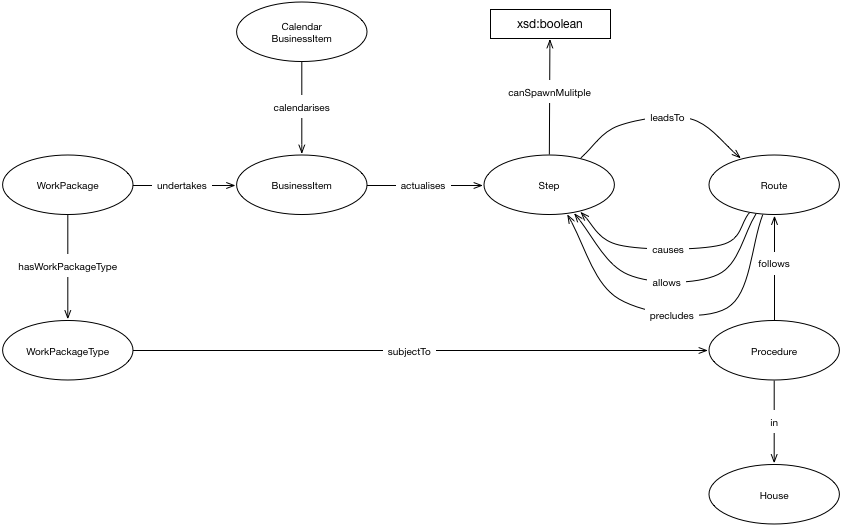
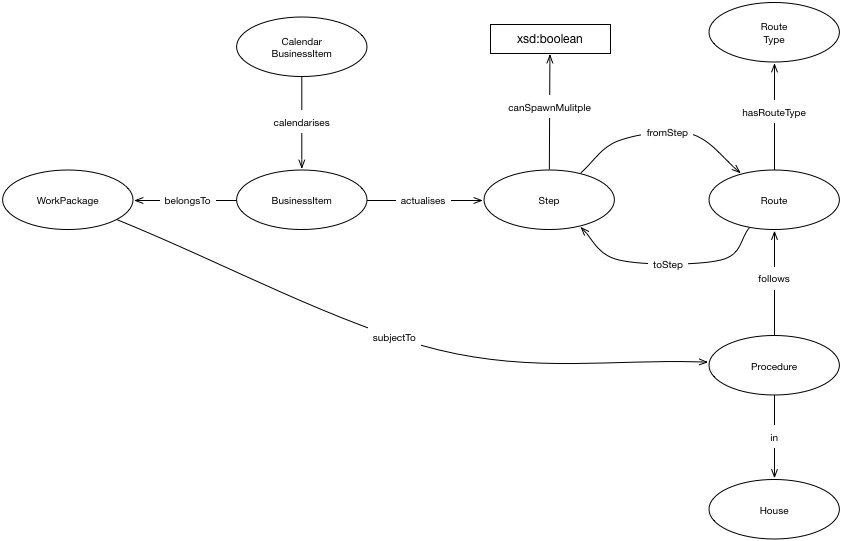
moved relationship predicates into route type class

diff --git a/procedure/procedure-ontology.html b/procedure/procedure-ontology.html
@@ -10,6 +10,8 @@
 
 
 
+
+
 		<link href="https://ukparliament.github.io/ontologies/assets/css.css" rel="stylesheet" type="text/css" />
 	</head>
 		<body>
@@ -36,21 +38,15 @@
 		<div id="toc"><h2>Table of Content</h2><ol><li><a href="#classes">Classes</a></li><li><a href="#objectproperties">Object Properties</a></li><li><a href="#dataproperties">Data Properties</a></li><li><a href="#namespacedeclarations">Namespace Declarations</a></li></ol></div>
 
 		<p><img src="https://raw.githubusercontent.com/ukpds/ontologies/master/procedure/procedure.png" width="950" /></p>
+		
+		
+		
 
 
 
 
 
 
-
-
-
-
-
-
-
-
-
-<div id="classes"><h2>Classes</h2><ul class="hlist"><li><a href="#d4e211" title="http://parliament.uk/ontologies/procedure/BusinessItem">BusinessItem</a></li><li><a href="#d4e222" title="http://parliament.uk/ontologies/procedure/CalendarBusinessItem">CalendarBusinessItem</a></li><li><a href="#d4e233" title="http://parliament.uk/ontologies/procedure/House">House</a></li><li><a href="#d4e245" title="http://parliament.uk/ontologies/procedure/Procedure">Procedure</a></li><li><a href="#d4e256" title="http://parliament.uk/ontologies/procedure/Route">Route</a></li><li><a href="#d4e267" title="http://parliament.uk/ontologies/procedure/Step">Step</a></li><li><a href="#d4e279" title="http://parliament.uk/ontologies/procedure/WorkPackage">WorkPackage</a></li><li><a href="#d4e290" title="http://parliament.uk/ontologies/procedure/WorkPackageType">WorkPackageType</a></li></ul><div id="d4e211" class="entity"><a name="http://parliament.uk/ontologies/procedure/BusinessItem"></a><h3>BusinessItem<sup title="class" class="type-c">c</sup><span class="backlink"> back to <a href="#toc">ToC</a> or <a href="#classes">Class ToC</a></span></h3><p><strong>IRI:</strong> http://parliament.uk/ontologies/procedure/BusinessItem</p><div class="comment"><span class="markdown">An item of parliamentary business.</span></div><dl class="description"><dt>is in domain of</dt><dd><a href="#d4e22" title="http://parliament.uk/ontologies/procedure/actualises">actualises</a><sup title="object property" class="type-op">op</sup></dd><dt>is in range of</dt><dd><a href="#d4e53" title="http://parliament.uk/ontologies/procedure/calendarises">calendarises</a><sup title="object property" class="type-op">op</sup>, <a href="#d4e176" title="http://parliament.uk/ontologies/procedure/undertakes">undertakes</a><sup title="object property" class="type-op">op</sup></dd></dl></div><div id="d4e222" class="entity"><a name="http://parliament.uk/ontologies/procedure/CalendarBusinessItem"></a><h3>CalendarBusinessItem<sup title="class" class="type-c">c</sup><span class="backlink"> back to <a href="#toc">ToC</a> or <a href="#classes">Class ToC</a></span></h3><p><strong>IRI:</strong> http://parliament.uk/ontologies/procedure/CalendarBusinessItem</p><div class="comment"><span class="markdown">An item of parliamentary business which has been timetabled onto a calendar.</span></div><dl class="description"><dt>is in domain of</dt><dd><a href="#d4e53" title="http://parliament.uk/ontologies/procedure/calendarises">calendarises</a><sup title="object property" class="type-op">op</sup></dd></dl></div><div id="d4e233" class="entity"><a name="http://parliament.uk/ontologies/procedure/House"></a><h3>House<sup title="class" class="type-c">c</sup><span class="backlink"> back to <a href="#toc">ToC</a> or <a href="#classes">Class ToC</a></span></h3><p><strong>IRI:</strong> http://parliament.uk/ontologies/procedure/House</p><div class="comment"><span class="markdown">A parliamentary House e.g. the House of Lords.</span></div><dl class="description"><dt>is in range of</dt><dd><a href="#d4e114" title="http://parliament.uk/ontologies/procedure/in">in</a><sup title="object property" class="type-op">op</sup></dd></dl></div><div id="d4e245" class="entity"><a name="http://parliament.uk/ontologies/procedure/Procedure"></a><h3>Procedure<sup title="class" class="type-c">c</sup><span class="backlink"> back to <a href="#toc">ToC</a> or <a href="#classes">Class ToC</a></span></h3><p><strong>IRI:</strong> http://parliament.uk/ontologies/procedure/Procedure</p><div class="comment"><span class="markdown">A parliamentary procedure in a particular House. Examples might be the passage of an affirmative SI in the House of Commons, the passage of a public bill in the House of Lords etc.</span></div><dl class="description"><dt>is in domain of</dt><dd><a href="#d4e84" title="http://parliament.uk/ontologies/procedure/follows">follows</a><sup title="object property" class="type-op">op</sup>, <a href="#d4e114" title="http://parliament.uk/ontologies/procedure/in">in</a><sup title="object property" class="type-op">op</sup></dd><dt>is in range of</dt><dd><a href="#d4e160" title="http://parliament.uk/ontologies/procedure/subjectTo">subjectTo</a><sup title="object property" class="type-op">op</sup></dd></dl></div><div id="d4e256" class="entity"><a name="http://parliament.uk/ontologies/procedure/Route"></a><h3>Route<sup title="class" class="type-c">c</sup><span class="backlink"> back to <a href="#toc">ToC</a> or <a href="#classes">Class ToC</a></span></h3><p><strong>IRI:</strong> http://parliament.uk/ontologies/procedure/Route</p><div class="comment"><span class="markdown">Ties a preceding step to a following step depending on applicable procedure, point in time and conditional inputs from the preceding step. Note that routes are time bound (borrowing startOn and endOn from the Core Ontology) allowing for routes to change over time and reflect changes to procedure.</span></div><dl class="description"><dt>is in domain of</dt><dd><a href="#d4e38" title="http://parliament.uk/ontologies/procedure/allows">allows</a><sup title="object property" class="type-op">op</sup>, <a href="#d4e68" title="http://parliament.uk/ontologies/procedure/causes">causes</a><sup title="object property" class="type-op">op</sup>, <a href="#d4e145" title="http://parliament.uk/ontologies/procedure/precludes">precludes</a><sup title="object property" class="type-op">op</sup></dd><dt>is in range of</dt><dd><a href="#d4e84" title="http://parliament.uk/ontologies/procedure/follows">follows</a><sup title="object property" class="type-op">op</sup>, <a href="#d4e130" title="http://parliament.uk/ontologies/procedure/leadsTo">leadsTo</a><sup title="object property" class="type-op">op</sup></dd></dl></div><div id="d4e267" class="entity"><a name="http://parliament.uk/ontologies/procedure/Step"></a><h3>Step<sup title="class" class="type-c">c</sup><span class="backlink"> back to <a href="#toc">ToC</a> or <a href="#classes">Class ToC</a></span></h3><p><strong>IRI:</strong> http://parliament.uk/ontologies/procedure/Step</p><div class="comment"><span class="markdown">A step in a process. May occur in one or many routes.</span></div><dl class="description"><dt>is in domain of</dt><dd><a href="#d4e193" title="http://parliament.uk/ontologies/procedure/canSpawnMultiple">canSpawnMultiple</a><sup title="data property" class="type-dp">dp</sup>, <a href="#d4e130" title="http://parliament.uk/ontologies/procedure/leadsTo">leadsTo</a><sup title="object property" class="type-op">op</sup></dd><dt>is in range of</dt><dd><a href="#d4e22" title="http://parliament.uk/ontologies/procedure/actualises">actualises</a><sup title="object property" class="type-op">op</sup>, <a href="#d4e38" title="http://parliament.uk/ontologies/procedure/allows">allows</a><sup title="object property" class="type-op">op</sup>, <a href="#d4e68" title="http://parliament.uk/ontologies/procedure/causes">causes</a><sup title="object property" class="type-op">op</sup>, <a href="#d4e145" title="http://parliament.uk/ontologies/procedure/precludes">precludes</a><sup title="object property" class="type-op">op</sup></dd></dl></div><div id="d4e279" class="entity"><a name="http://parliament.uk/ontologies/procedure/WorkPackage"></a><h3>WorkPackage<sup title="class" class="type-c">c</sup><span class="backlink"> back to <a href="#toc">ToC</a> or <a href="#classes">Class ToC</a></span></h3><p><strong>IRI:</strong> http://parliament.uk/ontologies/procedure/WorkPackage</p><div class="comment"><span class="markdown">A package of work involving many individual business items. Might be the passage of a specific statutory instrument or the passage of a specific public bill etc.</span></div><dl class="description"><dt>is in domain of</dt><dd><a href="#d4e99" title="http://parliament.uk/ontologies/procedure/hasWorkPackageType">hasWorkPackageType</a><sup title="object property" class="type-op">op</sup>, <a href="#d4e176" title="http://parliament.uk/ontologies/procedure/undertakes">undertakes</a><sup title="object property" class="type-op">op</sup></dd></dl></div><div id="d4e290" class="entity"><a name="http://parliament.uk/ontologies/procedure/WorkPackageType"></a><h3>WorkPackageType<sup title="class" class="type-c">c</sup><span class="backlink"> back to <a href="#toc">ToC</a> or <a href="#classes">Class ToC</a></span></h3><p><strong>IRI:</strong> http://parliament.uk/ontologies/procedure/WorkPackageType</p><div class="comment"><span class="markdown">A type of a work package. Might be the passage of affirmative statutory instruments or the passage of public bills etc.</span></div><dl class="description"><dt>is in domain of</dt><dd><a href="#d4e160" title="http://parliament.uk/ontologies/procedure/subjectTo">subjectTo</a><sup title="object property" class="type-op">op</sup></dd><dt>is in range of</dt><dd><a href="#d4e99" title="http://parliament.uk/ontologies/procedure/hasWorkPackageType">hasWorkPackageType</a><sup title="object property" class="type-op">op</sup></dd></dl></div></div><div id="objectproperties"><h2>Object Properties</h2><ul class="hlist"><li><a href="#d4e22" title="http://parliament.uk/ontologies/procedure/actualises">actualises</a></li><li><a href="#d4e38" title="http://parliament.uk/ontologies/procedure/allows">allows</a></li><li><a href="#d4e53" title="http://parliament.uk/ontologies/procedure/calendarises">calendarises</a></li><li><a href="#d4e68" title="http://parliament.uk/ontologies/procedure/causes">causes</a></li><li><a href="#d4e84" title="http://parliament.uk/ontologies/procedure/follows">follows</a></li><li><a href="#d4e99" title="http://parliament.uk/ontologies/procedure/hasWorkPackageType">hasWorkPackageType</a></li><li><a href="#d4e114" title="http://parliament.uk/ontologies/procedure/in">in</a></li><li><a href="#d4e130" title="http://parliament.uk/ontologies/procedure/leadsTo">leadsTo</a></li><li><a href="#d4e145" title="http://parliament.uk/ontologies/procedure/precludes">precludes</a></li><li><a href="#d4e160" title="http://parliament.uk/ontologies/procedure/subjectTo">subjectTo</a></li><li><a href="#d4e176" title="http://parliament.uk/ontologies/procedure/undertakes">undertakes</a></li></ul><div id="d4e22" class="entity"><a name="http://parliament.uk/ontologies/procedure/actualises"></a><h3>actualises<sup title="object property" class="type-op">op</sup><span class="backlink"> back to <a href="#toc">ToC</a> or <a href="#objectproperties">Object Property ToC</a></span></h3><p><strong>IRI:</strong> http://parliament.uk/ontologies/procedure/actualises</p><div class="comment"><span class="markdown">Relates a business item to a step in a procedure.</span></div><div class="description"><dl><dt>has domain</dt><dd><a href="#d4e211" title="http://parliament.uk/ontologies/procedure/BusinessItem">BusinessItem</a><sup title="class" class="type-c">c</sup></dd><dt>has range</dt><dd><a href="#d4e267" title="http://parliament.uk/ontologies/procedure/Step">Step</a><sup title="class" class="type-c">c</sup></dd></dl></div></div><div id="d4e38" class="entity"><a name="http://parliament.uk/ontologies/procedure/allows"></a><h3>allows<sup title="object property" class="type-op">op</sup><span class="backlink"> back to <a href="#toc">ToC</a> or <a href="#objectproperties">Object Property ToC</a></span></h3><p><strong>IRI:</strong> http://parliament.uk/ontologies/procedure/allows</p><div class="comment"><span class="markdown">Relates a route to a following step where completion of the preceding step(s) allows the next step to happen, but does not cause it to happen.</span></div><div class="description"><dl><dt>has domain</dt><dd><a href="#d4e256" title="http://parliament.uk/ontologies/procedure/Route">Route</a><sup title="class" class="type-c">c</sup></dd><dt>has range</dt><dd><a href="#d4e267" title="http://parliament.uk/ontologies/procedure/Step">Step</a><sup title="class" class="type-c">c</sup></dd></dl></div></div><div id="d4e53" class="entity"><a name="http://parliament.uk/ontologies/procedure/calendarises"></a><h3>calendarises<sup title="object property" class="type-op">op</sup><span class="backlink"> back to <a href="#toc">ToC</a> or <a href="#objectproperties">Object Property ToC</a></span></h3><p><strong>IRI:</strong> http://parliament.uk/ontologies/procedure/calendarises</p><div class="comment"><span class="markdown">Relates a calender business item to a business item.</span></div><div class="description"><dl><dt>has domain</dt><dd><a href="#d4e222" title="http://parliament.uk/ontologies/procedure/CalendarBusinessItem">CalendarBusinessItem</a><sup title="class" class="type-c">c</sup></dd><dt>has range</dt><dd><a href="#d4e211" title="http://parliament.uk/ontologies/procedure/BusinessItem">BusinessItem</a><sup title="class" class="type-c">c</sup></dd></dl></div></div><div id="d4e68" class="entity"><a name="http://parliament.uk/ontologies/procedure/causes"></a><h3>causes<sup title="object property" class="type-op">op</sup><span class="backlink"> back to <a href="#toc">ToC</a> or <a href="#objectproperties">Object Property ToC</a></span></h3><p><strong>IRI:</strong> http://parliament.uk/ontologies/procedure/causes</p><div class="comment"><span class="markdown">Relates a route to a following step where completion of the preceding step(s) directly causes the route to trigger the next step.</span></div><div class="description"><dl><dt>has domain</dt><dd><a href="#d4e256" title="http://parliament.uk/ontologies/procedure/Route">Route</a><sup title="class" class="type-c">c</sup></dd><dt>has range</dt><dd><a href="#d4e267" title="http://parliament.uk/ontologies/procedure/Step">Step</a><sup title="class" class="type-c">c</sup></dd></dl></div></div><div id="d4e84" class="entity"><a name="http://parliament.uk/ontologies/procedure/follows"></a><h3>follows<sup title="object property" class="type-op">op</sup><span class="backlink"> back to <a href="#toc">ToC</a> or <a href="#objectproperties">Object Property ToC</a></span></h3><p><strong>IRI:</strong> http://parliament.uk/ontologies/procedure/follows</p><div class="comment"><span class="markdown">Relates a procedure to a route.</span></div><div class="description"><dl><dt>has domain</dt><dd><a href="#d4e245" title="http://parliament.uk/ontologies/procedure/Procedure">Procedure</a><sup title="class" class="type-c">c</sup></dd><dt>has range</dt><dd><a href="#d4e256" title="http://parliament.uk/ontologies/procedure/Route">Route</a><sup title="class" class="type-c">c</sup></dd></dl></div></div><div id="d4e99" class="entity"><a name="http://parliament.uk/ontologies/procedure/hasWorkPackageType"></a><h3>hasWorkPackageType<sup title="object property" class="type-op">op</sup><span class="backlink"> back to <a href="#toc">ToC</a> or <a href="#objectproperties">Object Property ToC</a></span></h3><p><strong>IRI:</strong> http://parliament.uk/ontologies/procedure/hasWorkPackageType</p><div class="comment"><span class="markdown">Relates a work package to the type of work being undertaken.</span></div><div class="description"><dl><dt>has domain</dt><dd><a href="#d4e279" title="http://parliament.uk/ontologies/procedure/WorkPackage">WorkPackage</a><sup title="class" class="type-c">c</sup></dd><dt>has range</dt><dd><a href="#d4e290" title="http://parliament.uk/ontologies/procedure/WorkPackageType">WorkPackageType</a><sup title="class" class="type-c">c</sup></dd></dl></div></div><div id="d4e114" class="entity"><a name="http://parliament.uk/ontologies/procedure/in"></a><h3>in<sup title="object property" class="type-op">op</sup><span class="backlink"> back to <a href="#toc">ToC</a> or <a href="#objectproperties">Object Property ToC</a></span></h3><p><strong>IRI:</strong> http://parliament.uk/ontologies/procedure/in</p><div class="comment"><span class="markdown">Relates a procedure to a House.</span></div><div class="description"><dl><dt>has domain</dt><dd><a href="#d4e245" title="http://parliament.uk/ontologies/procedure/Procedure">Procedure</a><sup title="class" class="type-c">c</sup></dd><dt>has range</dt><dd><a href="#d4e233" title="http://parliament.uk/ontologies/procedure/House">House</a><sup title="class" class="type-c">c</sup></dd></dl></div></div><div id="d4e130" class="entity"><a name="http://parliament.uk/ontologies/procedure/leadsTo"></a><h3>leadsTo<sup title="object property" class="type-op">op</sup><span class="backlink"> back to <a href="#toc">ToC</a> or <a href="#objectproperties">Object Property ToC</a></span></h3><p><strong>IRI:</strong> http://parliament.uk/ontologies/procedure/leadsTo</p><div class="comment"><span class="markdown">Relates a step to a following route.</span></div><div class="description"><dl><dt>has domain</dt><dd><a href="#d4e267" title="http://parliament.uk/ontologies/procedure/Step">Step</a><sup title="class" class="type-c">c</sup></dd><dt>has range</dt><dd><a href="#d4e256" title="http://parliament.uk/ontologies/procedure/Route">Route</a><sup title="class" class="type-c">c</sup></dd></dl></div></div><div id="d4e145" class="entity"><a name="http://parliament.uk/ontologies/procedure/precludes"></a><h3>precludes<sup title="object property" class="type-op">op</sup><span class="backlink"> back to <a href="#toc">ToC</a> or <a href="#objectproperties">Object Property ToC</a></span></h3><p><strong>IRI:</strong> http://parliament.uk/ontologies/procedure/precludes</p><div class="comment"><span class="markdown">Relates a route to a following step where completion of the preceding step(s) precludes the subsequent step from happening.</span></div><div class="description"><dl><dt>has domain</dt><dd><a href="#d4e256" title="http://parliament.uk/ontologies/procedure/Route">Route</a><sup title="class" class="type-c">c</sup></dd><dt>has range</dt><dd><a href="#d4e267" title="http://parliament.uk/ontologies/procedure/Step">Step</a><sup title="class" class="type-c">c</sup></dd></dl></div></div><div id="d4e160" class="entity"><a name="http://parliament.uk/ontologies/procedure/subjectTo"></a><h3>subjectTo<sup title="object property" class="type-op">op</sup><span class="backlink"> back to <a href="#toc">ToC</a> or <a href="#objectproperties">Object Property ToC</a></span></h3><p><strong>IRI:</strong> http://parliament.uk/ontologies/procedure/subjectTo</p><div class="comment"><span class="markdown">Relates a work package type to the procedure it is subject to.</span></div><div class="description"><dl><dt>has domain</dt><dd><a href="#d4e290" title="http://parliament.uk/ontologies/procedure/WorkPackageType">WorkPackageType</a><sup title="class" class="type-c">c</sup></dd><dt>has range</dt><dd><a href="#d4e245" title="http://parliament.uk/ontologies/procedure/Procedure">Procedure</a><sup title="class" class="type-c">c</sup></dd></dl></div></div><div id="d4e176" class="entity"><a name="http://parliament.uk/ontologies/procedure/undertakes"></a><h3>undertakes<sup title="object property" class="type-op">op</sup><span class="backlink"> back to <a href="#toc">ToC</a> or <a href="#objectproperties">Object Property ToC</a></span></h3><p><strong>IRI:</strong> http://parliament.uk/ontologies/procedure/undertakes</p><div class="comment"><span class="markdown">Relates a work package to the individual business items that comprise it.</span></div><div class="description"><dl><dt>has domain</dt><dd><a href="#d4e279" title="http://parliament.uk/ontologies/procedure/WorkPackage">WorkPackage</a><sup title="class" class="type-c">c</sup></dd><dt>has range</dt><dd><a href="#d4e211" title="http://parliament.uk/ontologies/procedure/BusinessItem">BusinessItem</a><sup title="class" class="type-c">c</sup></dd></dl></div></div></div><div id="dataproperties"><h2>Data Properties</h2><ul class="hlist"><li><a href="#d4e193" title="http://parliament.uk/ontologies/procedure/canSpawnMultiple">canSpawnMultiple</a></li></ul><div id="d4e193" class="entity"><a name="http://parliament.uk/ontologies/procedure/canSpawnMultiple"></a><h3>canSpawnMultiple<sup title="data property" class="type-dp">dp</sup><span class="backlink"> back to <a href="#toc">ToC</a> or <a href="#dataproperties">Data Property ToC</a></span></h3><p><strong>IRI:</strong> http://parliament.uk/ontologies/procedure/canSpawnMultiple</p><div class="comment"><span class="markdown">Determines if multiple versions of the step can be spawned in parallel. Or just one.</span></div><div class="description"><dl><dt>has domain</dt><dd><a href="#d4e267" title="http://parliament.uk/ontologies/procedure/Step">Step</a><sup title="class" class="type-c">c</sup></dd><dt>has range</dt><dd><span class="dotted" title="http://www.w3.org/2001/XMLSchema#boolean">boolean</span></dd></dl></div></div></div><div id="namespacedeclarations"><h2>Namespace Declarations <span class="backlink"> back to <a href="#toc">ToC</a></span></h2><dl><dt><em>default namespace</em></dt><dd>http://parliament.uk/ontologies/laying/</dd><dt>owl</dt><dd>http://www.w3.org/2002/07/owl#</dd><dt>procedure</dt><dd>http://parliament.uk/ontologies/procedure/</dd><dt>rdf</dt><dd>http://www.w3.org/1999/02/22-rdf-syntax-ns#</dd><dt>rdfs</dt><dd>http://www.w3.org/2000/01/rdf-schema#</dd><dt>terms</dt><dd>http://purl.org/dc/terms/</dd><dt>xsd</dt><dd>http://www.w3.org/2001/XMLSchema#</dd></dl></div><p class="endnote">This HTML document was obtained by processing the OWL ontology source code through <a href="http://www.essepuntato.it/lode">LODE</a>, <em>Live OWL Documentation Environment</em>, developed by <a href="http://www.essepuntato.it">Silvio Peroni</a>.</p></body></html>
+<div id="classes"><h2>Classes</h2><ul class="hlist"><li><a href="#d4e180" title="http://parliament.uk/ontologies/procedure/BusinessItem">BusinessItem</a></li><li><a href="#d4e194" title="http://parliament.uk/ontologies/procedure/CalendarBusinessItem">CalendarBusinessItem</a></li><li><a href="#d4e205" title="http://parliament.uk/ontologies/procedure/House">House</a></li><li><a href="#d4e217" title="http://parliament.uk/ontologies/procedure/Procedure">Procedure</a></li><li><a href="#d4e228" title="http://parliament.uk/ontologies/procedure/Route">Route</a></li><li><a href="#d4e239" title="http://parliament.uk/ontologies/procedure/RouteType">RouteType</a></li><li><a href="#d4e251" title="http://parliament.uk/ontologies/procedure/Step">Step</a></li><li><a href="#d4e262" title="http://parliament.uk/ontologies/procedure/WorkPackage">WorkPackage</a></li></ul><div id="d4e180" class="entity"><a name="http://parliament.uk/ontologies/procedure/BusinessItem"></a><h3>BusinessItem<sup title="class" class="type-c">c</sup><span class="backlink"> back to <a href="#toc">ToC</a> or <a href="#classes">Class ToC</a></span></h3><p><strong>IRI:</strong> http://parliament.uk/ontologies/procedure/BusinessItem</p><div class="comment"><span class="markdown">An item of parliamentary business.</span></div><dl class="description"><dt>is in domain of</dt><dd><a href="#d4e22" title="http://parliament.uk/ontologies/procedure/actualises">actualises</a><sup title="object property" class="type-op">op</sup>, <a href="#d4e38" title="http://parliament.uk/ontologies/procedure/belongsTo">belongsTo</a><sup title="object property" class="type-op">op</sup></dd><dt>is in range of</dt><dd><a href="#d4e53" title="http://parliament.uk/ontologies/procedure/calendarises">calendarises</a><sup title="object property" class="type-op">op</sup></dd></dl></div><div id="d4e194" class="entity"><a name="http://parliament.uk/ontologies/procedure/CalendarBusinessItem"></a><h3>CalendarBusinessItem<sup title="class" class="type-c">c</sup><span class="backlink"> back to <a href="#toc">ToC</a> or <a href="#classes">Class ToC</a></span></h3><p><strong>IRI:</strong> http://parliament.uk/ontologies/procedure/CalendarBusinessItem</p><div class="comment"><span class="markdown">Handles the scheduling of a parliamentary business item once it has been timetabled into a calendar. The calendar business item only handles the timetabling of day, time and location and does not describe the nature of the business item.</span></div><dl class="description"><dt>is in domain of</dt><dd><a href="#d4e53" title="http://parliament.uk/ontologies/procedure/calendarises">calendarises</a><sup title="object property" class="type-op">op</sup></dd></dl></div><div id="d4e205" class="entity"><a name="http://parliament.uk/ontologies/procedure/House"></a><h3>House<sup title="class" class="type-c">c</sup><span class="backlink"> back to <a href="#toc">ToC</a> or <a href="#classes">Class ToC</a></span></h3><p><strong>IRI:</strong> http://parliament.uk/ontologies/procedure/House</p><div class="comment"><span class="markdown">A parliamentary House e.g. the House of Lords.</span></div><dl class="description"><dt>is in range of</dt><dd><a href="#d4e114" title="http://parliament.uk/ontologies/procedure/in">in</a><sup title="object property" class="type-op">op</sup></dd></dl></div><div id="d4e217" class="entity"><a name="http://parliament.uk/ontologies/procedure/Procedure"></a><h3>Procedure<sup title="class" class="type-c">c</sup><span class="backlink"> back to <a href="#toc">ToC</a> or <a href="#classes">Class ToC</a></span></h3><p><strong>IRI:</strong> http://parliament.uk/ontologies/procedure/Procedure</p><div class="comment"><span class="markdown">A parliamentary procedure in a particular House or Houses. An example might be the passage of an affirmative SI in both Houses. Note that some procedures are House specific, but can involve things like a joint committee that cuts across the two Houses. In this case we consider it to be a single procedure.</span></div><dl class="description"><dt>is in domain of</dt><dd><a href="#d4e68" title="http://parliament.uk/ontologies/procedure/follows">follows</a><sup title="object property" class="type-op">op</sup>, <a href="#d4e114" title="http://parliament.uk/ontologies/procedure/in">in</a><sup title="object property" class="type-op">op</sup></dd><dt>is in range of</dt><dd><a href="#d4e130" title="http://parliament.uk/ontologies/procedure/subjectTo">subjectTo</a><sup title="object property" class="type-op">op</sup></dd></dl></div><div id="d4e228" class="entity"><a name="http://parliament.uk/ontologies/procedure/Route"></a><h3>Route<sup title="class" class="type-c">c</sup><span class="backlink"> back to <a href="#toc">ToC</a> or <a href="#classes">Class ToC</a></span></h3><p><strong>IRI:</strong> http://parliament.uk/ontologies/procedure/Route</p><div class="comment"><span class="markdown">Ties a procedural step to the subsequent step or steps according to the parliamentary procedure which applies. Note that routes are time bound (borrowing startOn and endOn from the Core Ontology). This allows routes to change over time and adapt to changes in procedure.</span></div><dl class="description"><dt>is in domain of</dt><dd><a href="#d4e84" title="http://parliament.uk/ontologies/procedure/fromStep">fromStep</a><sup title="object property" class="type-op">op</sup>, <a href="#d4e99" title="http://parliament.uk/ontologies/procedure/hasRouteType">hasRouteType</a><sup title="object property" class="type-op">op</sup>, <a href="#d4e145" title="http://parliament.uk/ontologies/procedure/toStep">toStep</a><sup title="object property" class="type-op">op</sup></dd><dt>is in range of</dt><dd><a href="#d4e68" title="http://parliament.uk/ontologies/procedure/follows">follows</a><sup title="object property" class="type-op">op</sup></dd></dl></div><div id="d4e239" class="entity"><a name="http://parliament.uk/ontologies/procedure/RouteType"></a><h3>RouteType<sup title="class" class="type-c">c</sup><span class="backlink"> back to <a href="#toc">ToC</a> or <a href="#classes">Class ToC</a></span></h3><p><strong>IRI:</strong> http://parliament.uk/ontologies/procedure/RouteType</p><div class="comment"><span class="markdown">Ties a route to a route type. Route types are: causes, allows and precludes. A route of type causes relates the route to a following step where completion of the preceding step(s) directly causes the route to trigger the next step. A route of type allows relates the route to a following step where completion of the preceding step(s) allows the next step to happen, but does not cause it to happen. A route of type precludes relates a route to a step where completion of the preceding step(s) precludes that step from happening.</span></div><dl class="description"><dt>is in range of</dt><dd><a href="#d4e99" title="http://parliament.uk/ontologies/procedure/hasRouteType">hasRouteType</a><sup title="object property" class="type-op">op</sup></dd></dl></div><div id="d4e251" class="entity"><a name="http://parliament.uk/ontologies/procedure/Step"></a><h3>Step<sup title="class" class="type-c">c</sup><span class="backlink"> back to <a href="#toc">ToC</a> or <a href="#classes">Class ToC</a></span></h3><p><strong>IRI:</strong> http://parliament.uk/ontologies/procedure/Step</p><div class="comment"><span class="markdown">A step in a procedure e.g. consideration of a statutory instrument by the Joint Committee on Statutory Instruments. Steps may not be unique to a specific procedure e.g. the consideration described in the previous example happens in both the affirmative and negative statutory instrument procedure.</span></div><dl class="description"><dt>is in domain of</dt><dd><a href="#d4e162" title="http://parliament.uk/ontologies/procedure/canSpawnMultiple">canSpawnMultiple</a><sup title="data property" class="type-dp">dp</sup></dd><dt>is in range of</dt><dd><a href="#d4e22" title="http://parliament.uk/ontologies/procedure/actualises">actualises</a><sup title="object property" class="type-op">op</sup>, <a href="#d4e84" title="http://parliament.uk/ontologies/procedure/fromStep">fromStep</a><sup title="object property" class="type-op">op</sup>, <a href="#d4e145" title="http://parliament.uk/ontologies/procedure/toStep">toStep</a><sup title="object property" class="type-op">op</sup></dd></dl></div><div id="d4e262" class="entity"><a name="http://parliament.uk/ontologies/procedure/WorkPackage"></a><h3>WorkPackage<sup title="class" class="type-c">c</sup><span class="backlink"> back to <a href="#toc">ToC</a> or <a href="#classes">Class ToC</a></span></h3><p><strong>IRI:</strong> http://parliament.uk/ontologies/procedure/WorkPackage</p><div class="comment"><span class="markdown">A package of work grouping together many individual business items e.g. the passage of a specific statutory instrument or the passage of a specific public bill etc. Whereas a procedure (and its accompanying routes and steps) describes the process, the work package handles the application of that process for a specific instance.</span></div><dl class="description"><dt>is in domain of</dt><dd><a href="#d4e130" title="http://parliament.uk/ontologies/procedure/subjectTo">subjectTo</a><sup title="object property" class="type-op">op</sup></dd><dt>is in range of</dt><dd><a href="#d4e38" title="http://parliament.uk/ontologies/procedure/belongsTo">belongsTo</a><sup title="object property" class="type-op">op</sup></dd></dl></div></div><div id="objectproperties"><h2>Object Properties</h2><ul class="hlist"><li><a href="#d4e22" title="http://parliament.uk/ontologies/procedure/actualises">actualises</a></li><li><a href="#d4e38" title="http://parliament.uk/ontologies/procedure/belongsTo">belongsTo</a></li><li><a href="#d4e53" title="http://parliament.uk/ontologies/procedure/calendarises">calendarises</a></li><li><a href="#d4e68" title="http://parliament.uk/ontologies/procedure/follows">follows</a></li><li><a href="#d4e84" title="http://parliament.uk/ontologies/procedure/fromStep">fromStep</a></li><li><a href="#d4e99" title="http://parliament.uk/ontologies/procedure/hasRouteType">hasRouteType</a></li><li><a href="#d4e114" title="http://parliament.uk/ontologies/procedure/in">in</a></li><li><a href="#d4e130" title="http://parliament.uk/ontologies/procedure/subjectTo">subjectTo</a></li><li><a href="#d4e145" title="http://parliament.uk/ontologies/procedure/toStep">toStep</a></li></ul><div id="d4e22" class="entity"><a name="http://parliament.uk/ontologies/procedure/actualises"></a><h3>actualises<sup title="object property" class="type-op">op</sup><span class="backlink"> back to <a href="#toc">ToC</a> or <a href="#objectproperties">Object Property ToC</a></span></h3><p><strong>IRI:</strong> http://parliament.uk/ontologies/procedure/actualises</p><div class="comment"><span class="markdown">Relates a business item to a step in a procedure e.g. relates the second reading of a specific public bill to the corresponding (conceptual) step in the procedure.</span></div><div class="description"><dl><dt>has domain</dt><dd><a href="#d4e180" title="http://parliament.uk/ontologies/procedure/BusinessItem">BusinessItem</a><sup title="class" class="type-c">c</sup></dd><dt>has range</dt><dd><a href="#d4e251" title="http://parliament.uk/ontologies/procedure/Step">Step</a><sup title="class" class="type-c">c</sup></dd></dl></div></div><div id="d4e38" class="entity"><a name="http://parliament.uk/ontologies/procedure/belongsTo"></a><h3>belongsTo<sup title="object property" class="type-op">op</sup><span class="backlink"> back to <a href="#toc">ToC</a> or <a href="#objectproperties">Object Property ToC</a></span></h3><p><strong>IRI:</strong> http://parliament.uk/ontologies/procedure/belongsTo</p><div class="comment"><span class="markdown">Relates an individual business item to the work package it is part of.</span></div><div class="description"><dl><dt>has domain</dt><dd><a href="#d4e180" title="http://parliament.uk/ontologies/procedure/BusinessItem">BusinessItem</a><sup title="class" class="type-c">c</sup></dd><dt>has range</dt><dd><a href="#d4e262" title="http://parliament.uk/ontologies/procedure/WorkPackage">WorkPackage</a><sup title="class" class="type-c">c</sup></dd></dl></div></div><div id="d4e53" class="entity"><a name="http://parliament.uk/ontologies/procedure/calendarises"></a><h3>calendarises<sup title="object property" class="type-op">op</sup><span class="backlink"> back to <a href="#toc">ToC</a> or <a href="#objectproperties">Object Property ToC</a></span></h3><p><strong>IRI:</strong> http://parliament.uk/ontologies/procedure/calendarises</p><div class="comment"><span class="markdown">Relates a calender business item to a business item.</span></div><div class="description"><dl><dt>has domain</dt><dd><a href="#d4e194" title="http://parliament.uk/ontologies/procedure/CalendarBusinessItem">CalendarBusinessItem</a><sup title="class" class="type-c">c</sup></dd><dt>has range</dt><dd><a href="#d4e180" title="http://parliament.uk/ontologies/procedure/BusinessItem">BusinessItem</a><sup title="class" class="type-c">c</sup></dd></dl></div></div><div id="d4e68" class="entity"><a name="http://parliament.uk/ontologies/procedure/follows"></a><h3>follows<sup title="object property" class="type-op">op</sup><span class="backlink"> back to <a href="#toc">ToC</a> or <a href="#objectproperties">Object Property ToC</a></span></h3><p><strong>IRI:</strong> http://parliament.uk/ontologies/procedure/follows</p><div class="comment"><span class="markdown">Relates a procedure to a route.</span></div><div class="description"><dl><dt>has domain</dt><dd><a href="#d4e217" title="http://parliament.uk/ontologies/procedure/Procedure">Procedure</a><sup title="class" class="type-c">c</sup></dd><dt>has range</dt><dd><a href="#d4e228" title="http://parliament.uk/ontologies/procedure/Route">Route</a><sup title="class" class="type-c">c</sup></dd></dl></div></div><div id="d4e84" class="entity"><a name="http://parliament.uk/ontologies/procedure/fromStep"></a><h3>fromStep<sup title="object property" class="type-op">op</sup><span class="backlink"> back to <a href="#toc">ToC</a> or <a href="#objectproperties">Object Property ToC</a></span></h3><p><strong>IRI:</strong> http://parliament.uk/ontologies/procedure/fromStep</p><div class="comment"><span class="markdown">Relates a route to a preceding step.</span></div><div class="description"><dl><dt>has domain</dt><dd><a href="#d4e228" title="http://parliament.uk/ontologies/procedure/Route">Route</a><sup title="class" class="type-c">c</sup></dd><dt>has range</dt><dd><a href="#d4e251" title="http://parliament.uk/ontologies/procedure/Step">Step</a><sup title="class" class="type-c">c</sup></dd></dl></div></div><div id="d4e99" class="entity"><a name="http://parliament.uk/ontologies/procedure/hasRouteType"></a><h3>hasRouteType<sup title="object property" class="type-op">op</sup><span class="backlink"> back to <a href="#toc">ToC</a> or <a href="#objectproperties">Object Property ToC</a></span></h3><p><strong>IRI:</strong> http://parliament.uk/ontologies/procedure/hasRouteType</p><div class="comment"><span class="markdown">Relates a route to a route type.</span></div><div class="description"><dl><dt>has domain</dt><dd><a href="#d4e228" title="http://parliament.uk/ontologies/procedure/Route">Route</a><sup title="class" class="type-c">c</sup></dd><dt>has range</dt><dd><a href="#d4e239" title="http://parliament.uk/ontologies/procedure/RouteType">RouteType</a><sup title="class" class="type-c">c</sup></dd></dl></div></div><div id="d4e114" class="entity"><a name="http://parliament.uk/ontologies/procedure/in"></a><h3>in<sup title="object property" class="type-op">op</sup><span class="backlink"> back to <a href="#toc">ToC</a> or <a href="#objectproperties">Object Property ToC</a></span></h3><p><strong>IRI:</strong> http://parliament.uk/ontologies/procedure/in</p><div class="comment"><span class="markdown">Relates a procedure to one or both Houses.</span></div><div class="description"><dl><dt>has domain</dt><dd><a href="#d4e217" title="http://parliament.uk/ontologies/procedure/Procedure">Procedure</a><sup title="class" class="type-c">c</sup></dd><dt>has range</dt><dd><a href="#d4e205" title="http://parliament.uk/ontologies/procedure/House">House</a><sup title="class" class="type-c">c</sup></dd></dl></div></div><div id="d4e130" class="entity"><a name="http://parliament.uk/ontologies/procedure/subjectTo"></a><h3>subjectTo<sup title="object property" class="type-op">op</sup><span class="backlink"> back to <a href="#toc">ToC</a> or <a href="#objectproperties">Object Property ToC</a></span></h3><p><strong>IRI:</strong> http://parliament.uk/ontologies/procedure/subjectTo</p><div class="comment"><span class="markdown">Relates a work package to the procedure it is subject to.</span></div><div class="description"><dl><dt>has domain</dt><dd><a href="#d4e262" title="http://parliament.uk/ontologies/procedure/WorkPackage">WorkPackage</a><sup title="class" class="type-c">c</sup></dd><dt>has range</dt><dd><a href="#d4e217" title="http://parliament.uk/ontologies/procedure/Procedure">Procedure</a><sup title="class" class="type-c">c</sup></dd></dl></div></div><div id="d4e145" class="entity"><a name="http://parliament.uk/ontologies/procedure/toStep"></a><h3>toStep<sup title="object property" class="type-op">op</sup><span class="backlink"> back to <a href="#toc">ToC</a> or <a href="#objectproperties">Object Property ToC</a></span></h3><p><strong>IRI:</strong> http://parliament.uk/ontologies/procedure/toStep</p><div class="comment"><span class="markdown">Relates a route to a following step.</span></div><div class="description"><dl><dt>has domain</dt><dd><a href="#d4e228" title="http://parliament.uk/ontologies/procedure/Route">Route</a><sup title="class" class="type-c">c</sup></dd><dt>has range</dt><dd><a href="#d4e251" title="http://parliament.uk/ontologies/procedure/Step">Step</a><sup title="class" class="type-c">c</sup></dd></dl></div></div></div><div id="dataproperties"><h2>Data Properties</h2><ul class="hlist"><li><a href="#d4e162" title="http://parliament.uk/ontologies/procedure/canSpawnMultiple">canSpawnMultiple</a></li></ul><div id="d4e162" class="entity"><a name="http://parliament.uk/ontologies/procedure/canSpawnMultiple"></a><h3>canSpawnMultiple<sup title="data property" class="type-dp">dp</sup><span class="backlink"> back to <a href="#toc">ToC</a> or <a href="#dataproperties">Data Property ToC</a></span></h3><p><strong>IRI:</strong> http://parliament.uk/ontologies/procedure/canSpawnMultiple</p><div class="comment"><span class="markdown">Determines if multiple instances of the step can be spawned in parallel e.g. the tabling of more than one non-fatal motion on a negative statutory instrument</span></div><div class="description"><dl><dt>has domain</dt><dd><a href="#d4e251" title="http://parliament.uk/ontologies/procedure/Step">Step</a><sup title="class" class="type-c">c</sup></dd><dt>has range</dt><dd><span class="dotted" title="http://www.w3.org/2001/XMLSchema#boolean">boolean</span></dd></dl></div></div></div><div id="namespacedeclarations"><h2>Namespace Declarations <span class="backlink"> back to <a href="#toc">ToC</a></span></h2><dl><dt><em>default namespace</em></dt><dd>http://parliament.uk/ontologies/laying/</dd><dt>owl</dt><dd>http://www.w3.org/2002/07/owl#</dd><dt>procedure</dt><dd>http://parliament.uk/ontologies/procedure/</dd><dt>rdf</dt><dd>http://www.w3.org/1999/02/22-rdf-syntax-ns#</dd><dt>rdfs</dt><dd>http://www.w3.org/2000/01/rdf-schema#</dd><dt>terms</dt><dd>http://purl.org/dc/terms/</dd><dt>xsd</dt><dd>http://www.w3.org/2001/XMLSchema#</dd></dl></div><p class="endnote">This HTML document was obtained by processing the OWL ontology source code through <a href="http://www.essepuntato.it/lode">LODE</a>, <em>Live OWL Documentation Environment</em>, developed by <a href="http://www.essepuntato.it">Silvio Peroni</a>.</p></body></html>
 
 
